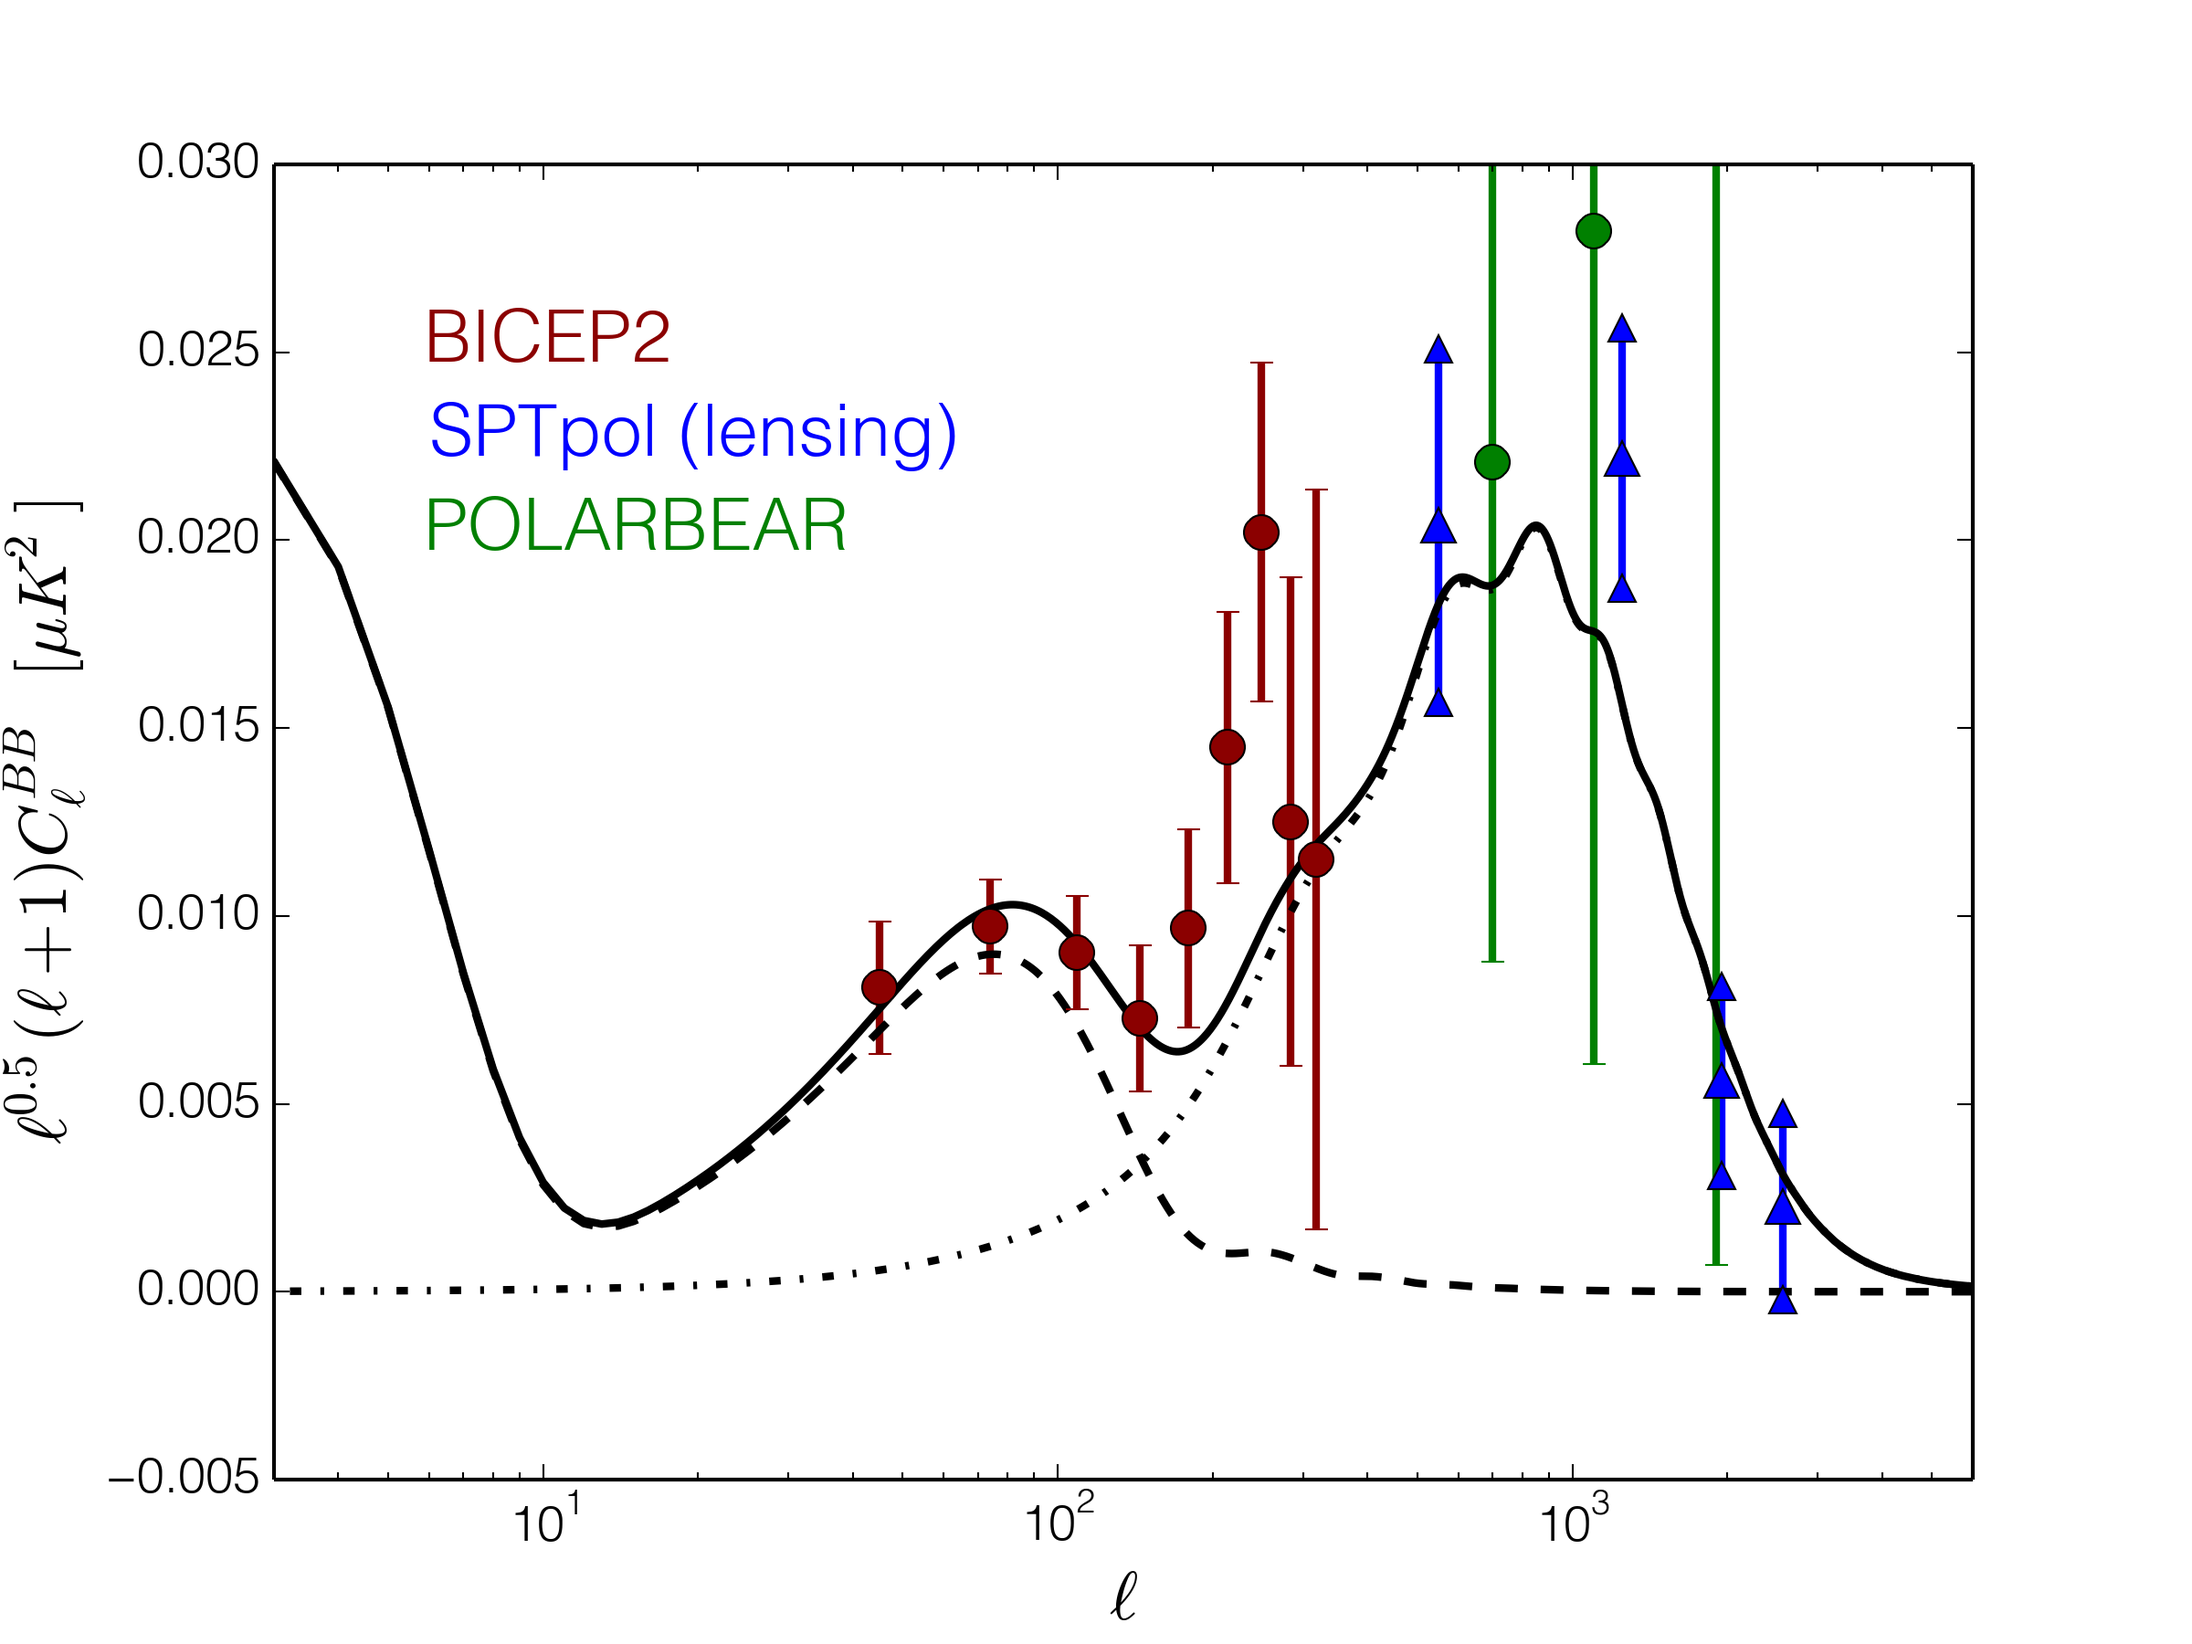
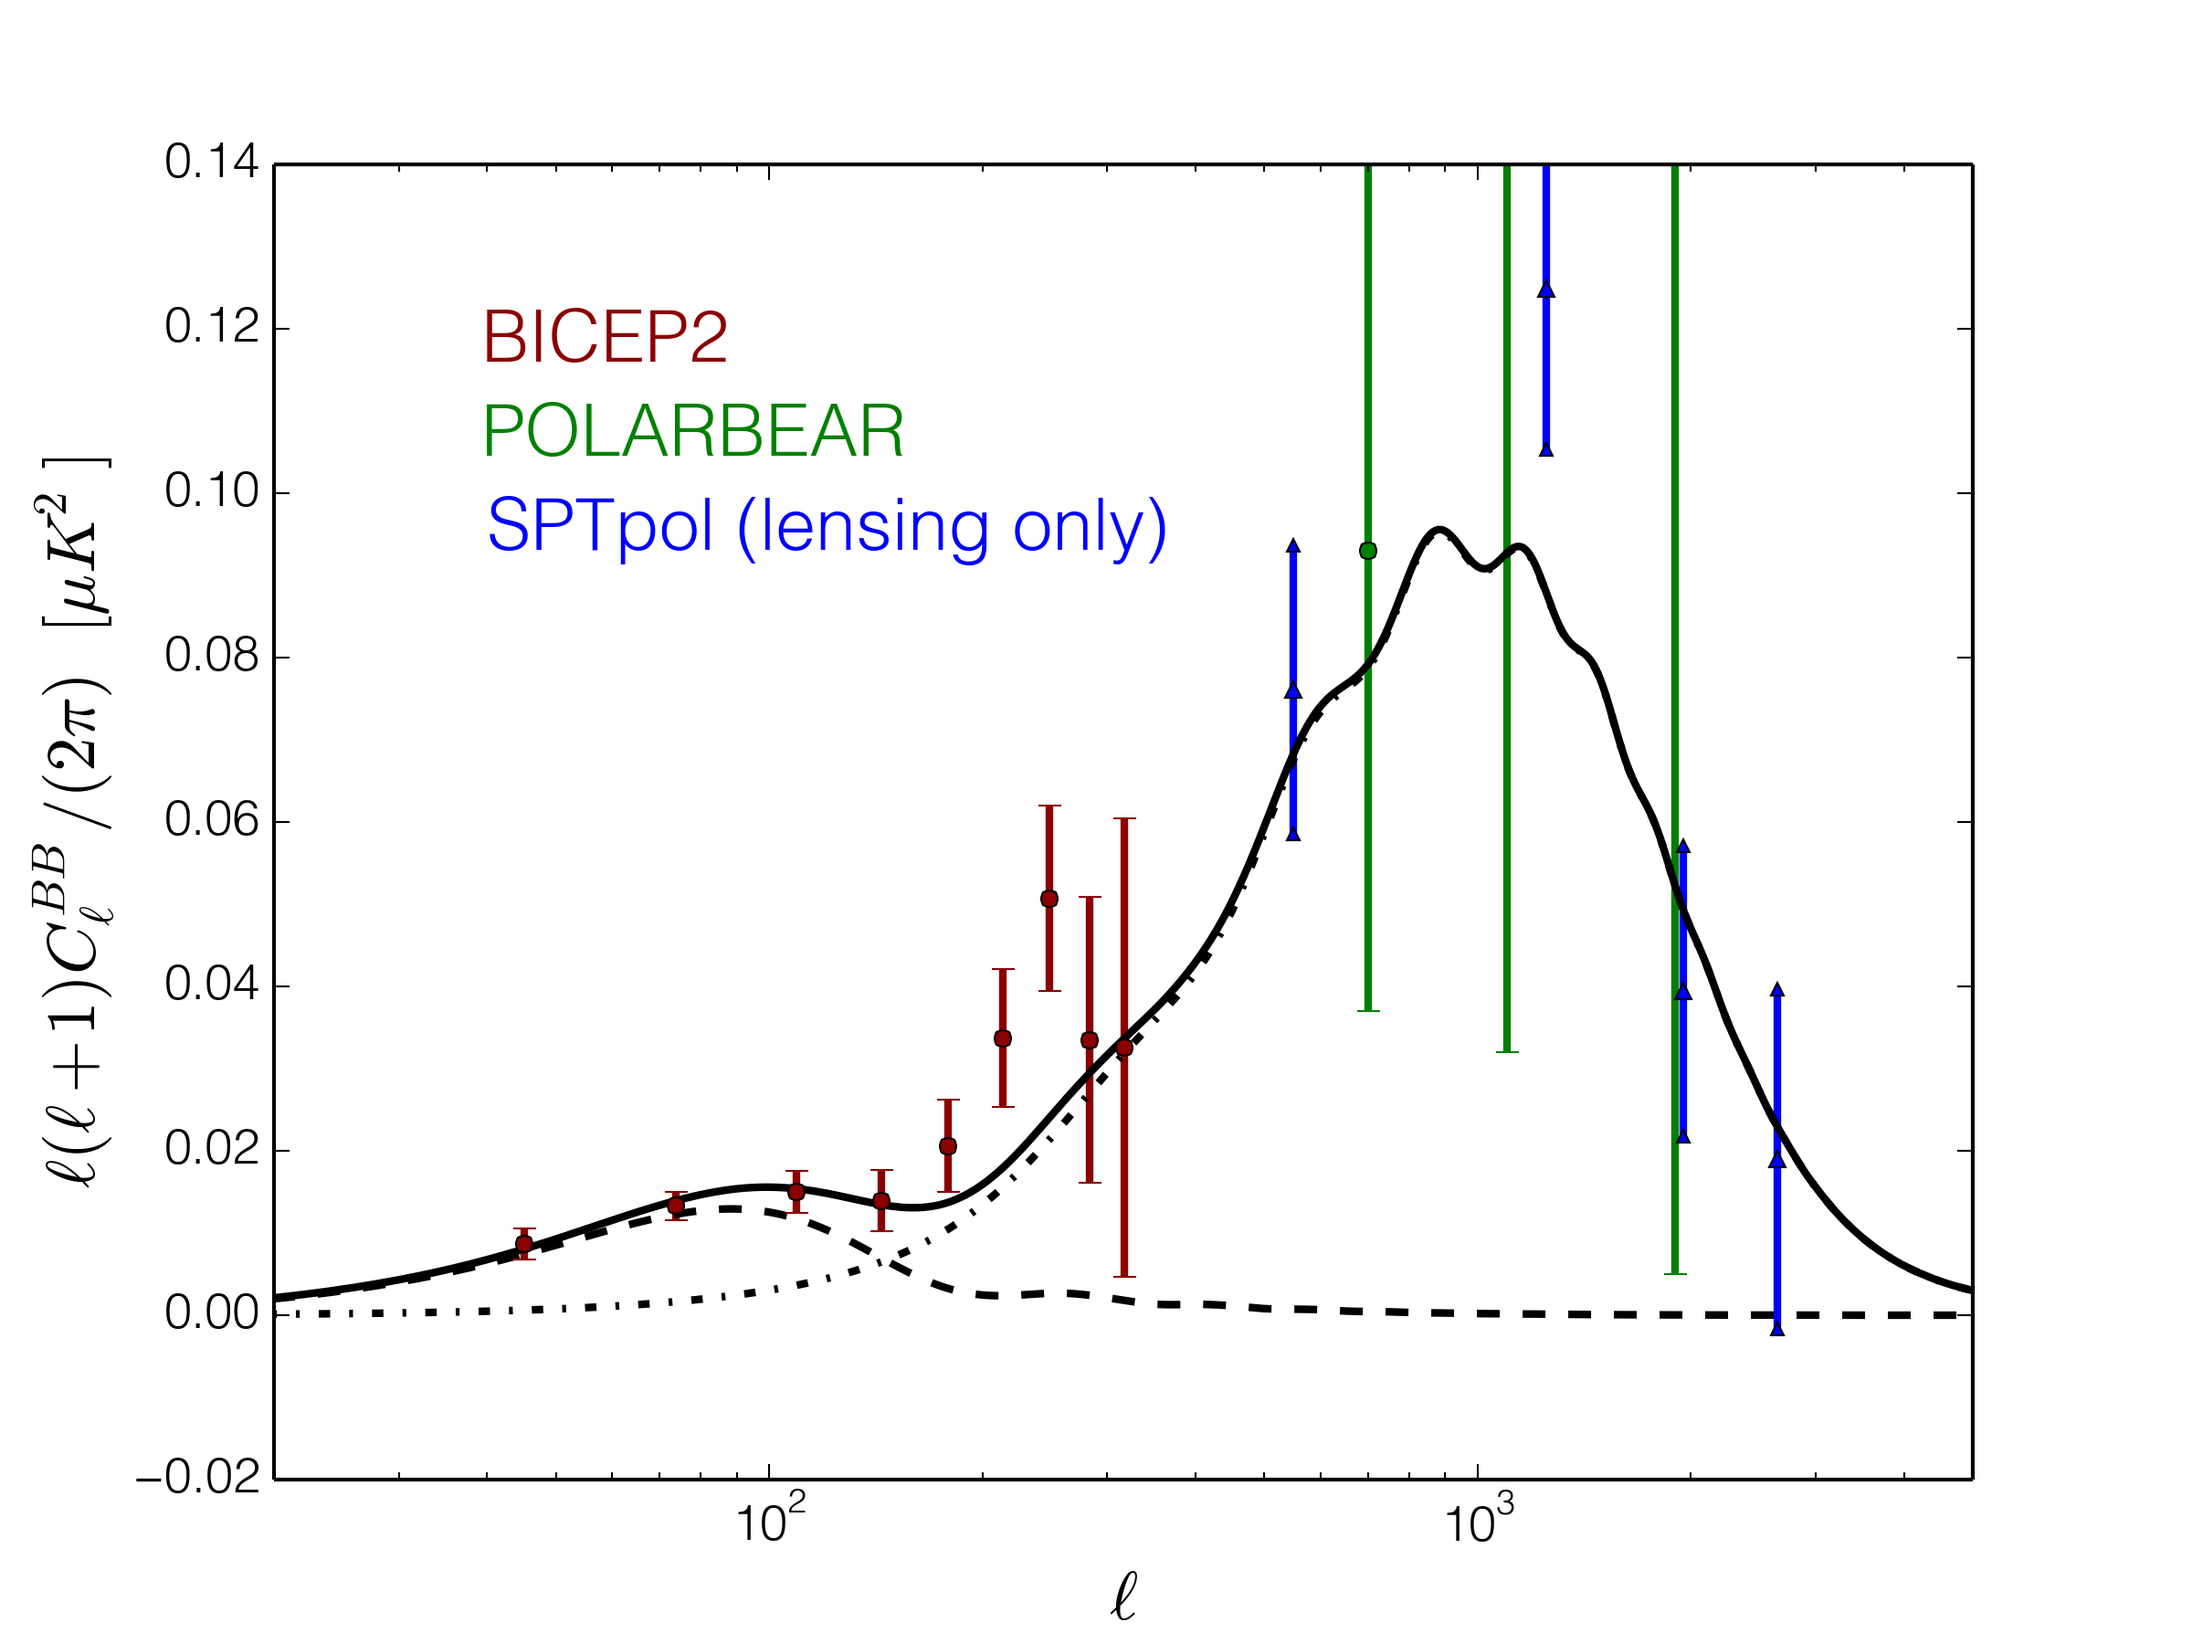
tweaked BB figure and added code for EE figure

diff --git a/ee_plot.py b/ee_plot.py
@@ -9,41 +9,39 @@ datadir='./data/'
 def make_baseline():
     '''
     Run the make_one() function with the baseline parameters, and 
-    save the output image as bb.png.
+    save the output image as ee.png.
     '''
-    make_one(savename='bb.png', force_crop=True, lpower=2, logy=False)
+    make_one(savename='ee.png', lpower=2, include_wmap=True)
 
 
 
 def make_many():
     make_baseline()
-    make_one(force_crop=True,lpower=1.5)
-    make_one(force_crop=False,lpower=1.5)
-    make_one(force_crop=True,lpower=2)
-    make_one(force_crop=False,lpower=2)
-    make_one(force_crop=False,lpower=2,logy=True)
+    make_one(lpower=2, include_wmap=True)
+    make_one(lpower=2, include_wmap=False)
 
 
-def make_one(lpower=1.5, include_polarbear=True, force_crop=True, 
+
+def make_one(lpower=1.5, include_wmap=True, force_crop=True, 
              logy=False, filetype='png', 
              savepath='./', savename=None):
     '''
     The main program for making this figure.
     LPOWER [1.5] controls the power of the multipole scaling.
-    INCLUDE_POLARBEAR [True] determines whether to include the POLARBEAR data.
-    FORCE_CROP [True] determines whether to use the "BICEP2+SPTpol" vertical range.
+    INCLUDE_WMAP [True] determines whether to include the WMAP data.
+    FORCE_CROP [True] determines whether to use the "BICEP2+QUaD" vertical range.
     FILETYPE ['png'] is the type of image produced.
     SAVEPATH ['./'] is the save path.
     SAVENAME [None] is available if you want to force a particular filename.
     '''
 
     # load theory
-    l, cl_bb_lens, cl_bb_r = load_theory(r=0.2)
+    l, cl_ee_lens = load_theory()
 
     # load data
-    spt = load_data('sptpol', lpower)
+    wmap = load_data('wmap', lpower)
     bi = load_data('bicep2', lpower)
-    pb = load_data('polarbear', lpower)
+    quad = load_data('quad', lpower)
     
     # Set up a few things for plotting.
     lscal = lscaling(l, lpower)
@@ -59,13 +57,12 @@ def make_one(lpower=1.5, include_polarbear=True, force_crop=True,
     pl.ylabel(get_ylabel(lpower), fontsize=fs)
 
     # Plot the theory spectra.
-    fplot(l, cl_bb_lens*lscal, 'k-.', linewidth=lw_theory)
-    fplot(l, cl_bb_r*lscal, 'k--', linewidth=lw_theory)
-    fplot(l, (cl_bb_lens+cl_bb_r)*lscal, 'k', linewidth=lw_theory)
+    fplot(l, cl_ee_lens*lscal, 'k-', linewidth=lw_theory)
+
 
     # Plot the data.
-    exp2plot = [bi, spt]
-    if include_polarbear: exp2plot = [bi, pb, spt]
+    exp2plot = [bi, quad]
+    if include_wmap: exp2plot.append(wmap)
     ax = pl.gca()
     ms_scale = 1.
     if not(force_crop): ms_scale *= 0.5
@@ -77,17 +74,20 @@ def make_one(lpower=1.5, include_polarbear=True, force_crop=True,
         pl.errorbar(e['l'], e['plot'], yerr=e['dplot'], fmt=' ', 
                     linewidth=lw_data, color=e['color'], capsize=e['capsize'])
         pl.plot(e['l'], e['plot'], e['symbol'], color=e['color'], ms=9*ms_scale)
-        if e['name']=='sptpol': 
-            pl.plot(e['l'], e['plot']+e['dplot'], e['symbol'], color=e['color'], ms=7*ms_scale)
-            pl.plot(e['l'], e['plot']-e['dplot'], e['symbol'], color=e['color'], ms=7*ms_scale)
+        #if e['name']=='sptpol': 
+        #    pl.plot(e['l'], e['plot']+e['dplot'], e['symbol'], color=e['color'], ms=7*ms_scale)
+        #    pl.plot(e['l'], e['plot']-e['dplot'], e['symbol'], color=e['color'], ms=7*ms_scale)
+
 
     if not(logy):
-        if force_crop: pl.ylim(-0.02,0.14)
+        theory_max = np.max((cl_ee_lens)*lscal)
+        if force_crop: pl.ylim(-10,50)
+        else: pl.ylim(-10,50)
 
     if logy:
-        theory_max = np.max((cl_bb_lens+cl_bb_r)*lscal)
-        if force_crop: pl.ylim(theory_max/150., theory_max*6.)
-        else: pl.ylim(theory_max/150., theory_max*15.)
+        theory_max = np.max((cl_ee_lens)*lscal)
+        if force_crop: pl.ylim(theory_max/150., theory_max*1.)
+        else: pl.ylim(theory_max/150., theory_max*1.)
 
     # Add a legend.
     yl = ax.get_ylim()
@@ -110,8 +110,8 @@ def make_one(lpower=1.5, include_polarbear=True, force_crop=True,
 
     # Save the figure.
     if savename==None:
-        savename = savepath+'bb_l%0.1f_bicep2_sptpol'%lpower
-        if include_polarbear: savename += '_pbear'
+        savename = savepath+'ee_l%0.1f_bicep2_quad'%lpower
+        if include_wmap: savename += '_wmap'
         if not(force_crop): savename += '_nocrop'
         if logy: savename += '_logy'
         savename += '.'+filetype
@@ -121,74 +121,75 @@ def make_one(lpower=1.5, include_polarbear=True, force_crop=True,
 
 
 def get_ylabel(lpower):
-    if lpower==0: o=r'$C_\ell^{BB}$'
-    if lpower==0.5: o=r'$\ell^{0.5} C_\ell^{BB}$'
-    if lpower==1: o=r'$\ell C_\ell^{BB}$'
-    if lpower==1.5: o=r'$\ell^{0.5} ( \ell + 1)  C_\ell^{BB}$'
-    if lpower==2: o=r'$\ell ( \ell + 1) C_\ell^{BB} /(2 \pi)$'
+    if lpower==0: o=r'$C_\ell^{EE}$'
+    if lpower==0.5: o=r'$\ell^{0.5} C_\ell^{EE}$'
+    if lpower==1: o=r'$\ell C_\ell^{EE}$'
+    if lpower==1.5: o=r'$\ell^{0.5} ( \ell + 1)  C_\ell^{EE}$'
+    if lpower==2: o=r'$\ell ( \ell + 1) C_\ell^{EE} /(2 \pi)$'
     o += '  '
     o += '$[\mu K^2]$'
     return o
 
 
-def load_theory(r=0.2):
+def load_theory():
     # Read in the theory spectra.
     cambfile = datadir+'planck2013_TableIICol4_lensedCls.dat'
     tmp = np.loadtxt(cambfile)
     l = tmp[:,0]
     nl = len(l)
-    dl_bb_lens = tmp[:,3]
-    cl_bb_lens = dl_bb_lens/l/(l+1.)*2.*np.pi
-
-    tmp = np.loadtxt(datadir+'delta_clbb_delta_r_uk2.txt')
-    r=0.2
-    cl_bb_r = r*tmp[0:nl, 1]
-    return l, cl_bb_lens, cl_bb_r
+    dl_ee_lens = tmp[:,2]
+    cl_ee_lens = dl_ee_lens/l/(l+1.)*2.*np.pi
+    return l, cl_ee_lens
 
 
 def load_data(exp, lpower):
-    if exp=='sptpol':
-        # Load SPTpol Hanson et al bandpowers.
-        tmp=np.loadtxt(datadir+'sptpol_hanson13_CL_BB.txt',delimiter=',')
+    if exp=='wmap':
+        # Load WMAP EE bandpowers.
+        tmp=np.loadtxt(datadir+'wmap_binned_ee_spectrum_9yr_v5.txt')
+        wh_keep = np.where(tmp[:,0] <= 200)[0] # only show L<LMAX WMAP data.
+        tmp = tmp[wh_keep, :]
         l = tmp[:,0]
-        cl_bb = tmp[:,1]/l/1e4
-        sigma_cl_bb = tmp[:,2]/l/1e4
-        legend_name = 'SPTpol (lensing only)'
-        name = 'sptpol'
+        dl_ee = tmp[:,3]
+        sigma_dl_ee = tmp[:,4]
+        cl_ee = dl_ee/l/(l+1.)*2.*np.pi
+        sigma_cl_ee = sigma_dl_ee/l/(l+1.)*2.*np.pi
+        legend_name = 'WMAP'
+        name = 'wmap'
         color = 'blue'
-        symbol = '^'
+        symbol = 'o'
         capsize=0
         
     if exp=='bicep2':
         # Load BICEP2 bandpowers.
         tmp=np.loadtxt(datadir+'B2_3yr_bandpowers_20140314.txt')
         l = tmp[:,1]
-        cl_bb = tmp[:,6]/l/(l+1.)*2.*np.pi
-        sigma_cl_bb = tmp[:,12]/l/(l+1.)*2.*np.pi
+        cl_ee = tmp[:,5]/l/(l+1.)*2.*np.pi
+        sigma_cl_ee = tmp[:,11]/l/(l+1.)*2.*np.pi
         legend_name = 'BICEP2'
         name = 'bicep2'
         color = 'darkred'
         symbol = 'o'
         capsize=3
 
-    if exp=='polarbear':
-        # Load PolarBear bandpowers.
-        l = np.array([700., 1100., 1500., 1900.])
-        dl_bb = np.array([0.093, 0.149, -0.317, 0.487])
-        sigma_dl_bb = np.array([0.056, 0.117, 0.236, 0.482])
-        cl_bb = dl_bb/l/(l+1.)*2.*np.pi
-        sigma_cl_bb = sigma_dl_bb/l/(l+1.)*2.*np.pi
-        legend_name = 'POLARBEAR'
-        name = 'polarbear'
+    if exp=='quad':
+        # Load QUAD bandpowers.
+        tmp=np.loadtxt(datadir+'quad_ee.txt')
+        l = tmp[:,0]
+        dl_ee = tmp[:,1]
+        sigma_dl_ee = tmp[:,2]
+        cl_ee = dl_ee/l/(l+1.)*2.*np.pi
+        sigma_cl_ee = sigma_dl_ee/l/(l+1.)*2.*np.pi
+        legend_name = 'QUaD'
+        name = 'quad'
         color = 'green'
         symbol = 'o'
         capsize=3
 
-    return {'l':l, 'cl':cl_bb, 'dcl':sigma_cl_bb, 
+    return {'l':l, 'cl':cl_ee, 'dcl':sigma_cl_ee, 
             'name':name, 'legend_name':legend_name, 
             'color':color, 
-            'plot':cl_bb*lscaling(l, lpower),
-            'dplot':sigma_cl_bb*lscaling(l, lpower), 
+            'plot':cl_ee*lscaling(l, lpower),
+            'dplot':sigma_cl_ee*lscaling(l, lpower), 
             'symbol':symbol, 'capsize':capsize}
 
 def lscaling(l, lpower=1.):
